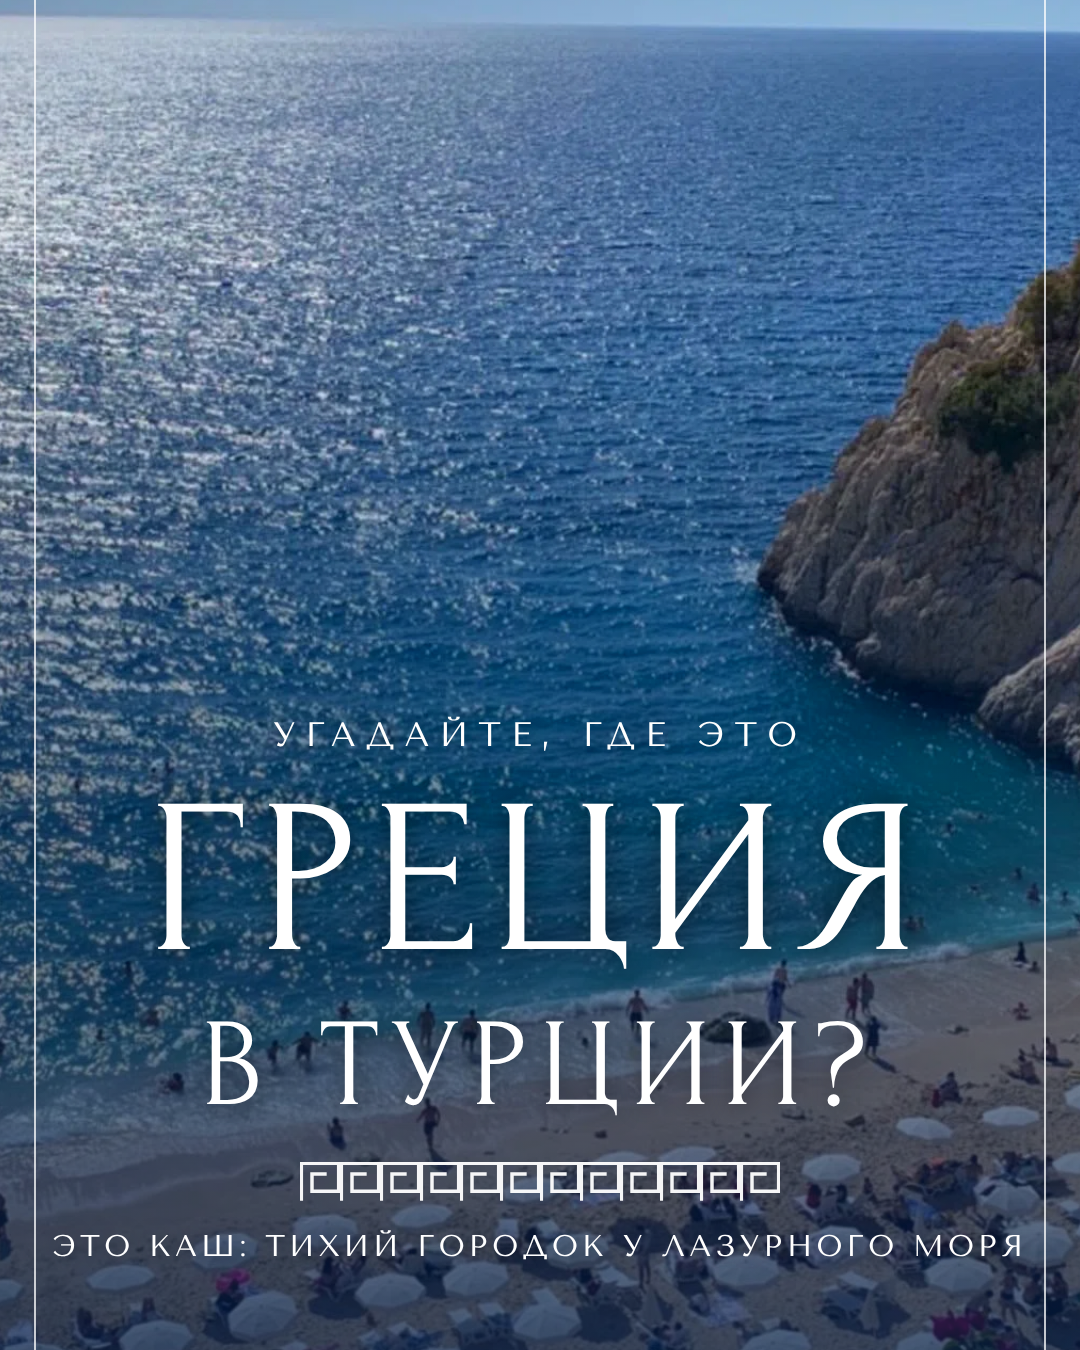
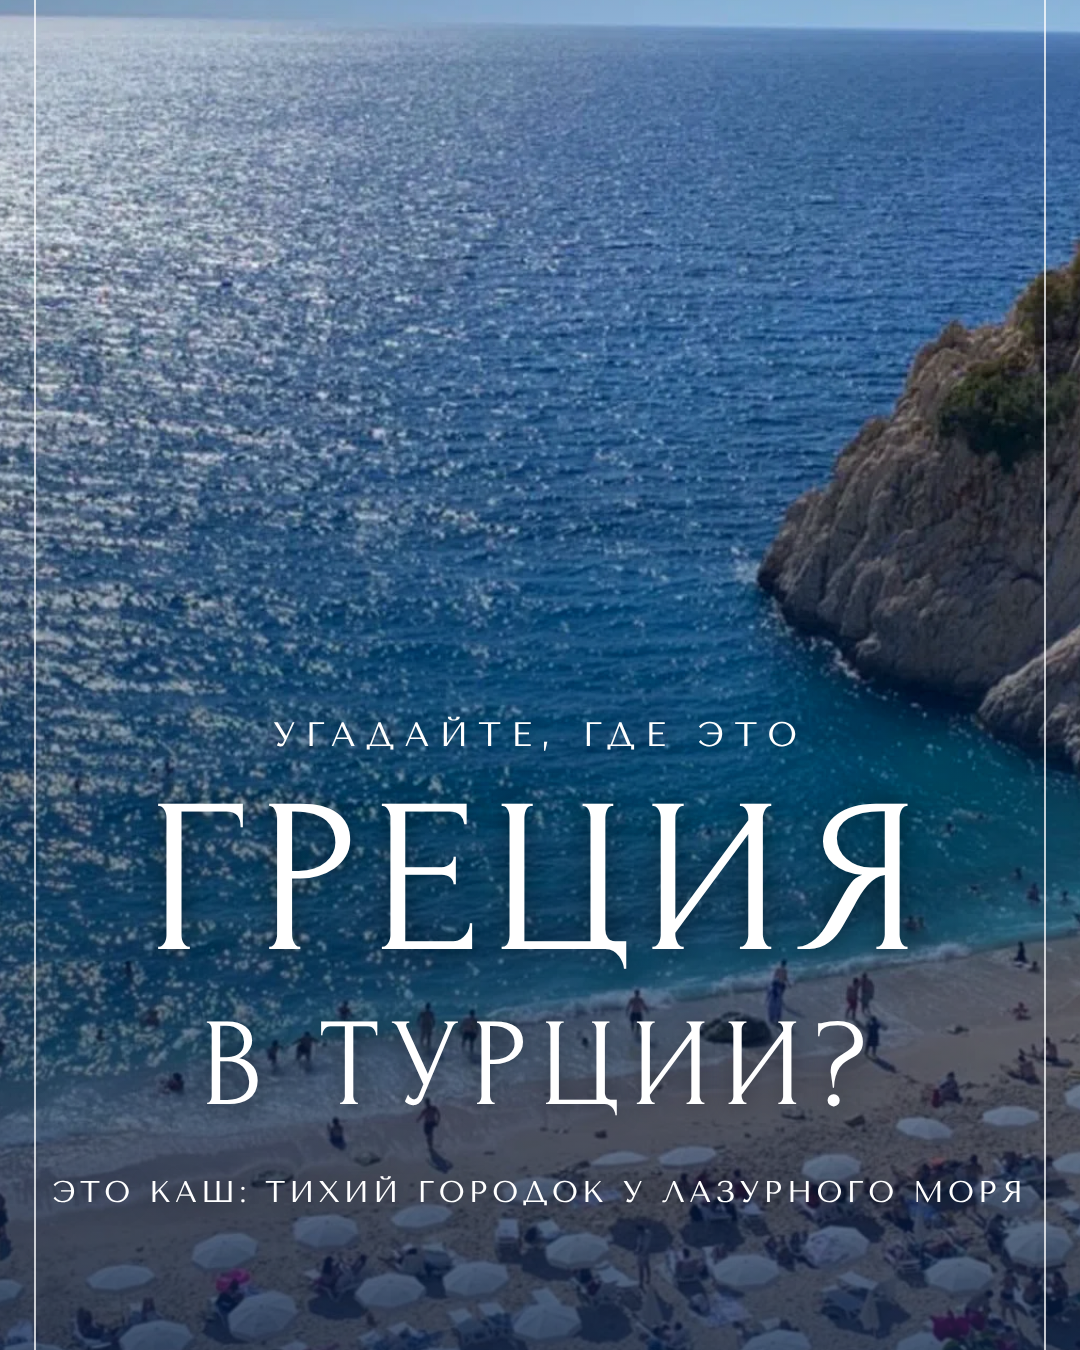
Kaş cover: remove meander ornament under the title; variant without question mark
Claude-Session: https://claude.ai/code/session_01MfS1QBJzWMUPe5nNUUUdV5

diff --git a/make_cover_greek.js b/make_cover_greek.js
@@ -19,9 +19,9 @@ html,body{width:1080px;height:1920px;overflow:hidden;background:#04264f;color:#f
 .b{font-family:FR;font-size:${size}px;line-height:1.05;letter-spacing:.06em;text-transform:uppercase;margin-top:12px}
 .m{font-family:FR;font-size:${Math.min(150, Math.floor(900 / (L2.length * 0.8)))}px;letter-spacing:.1em;text-transform:uppercase;line-height:1.1}
 .mea{width:480px;height:40px;margin:26px auto 22px;background:${MEA} repeat-x;background-size:40px 40px;opacity:.95}
-.s{font-family:TS;font-size:30px;letter-spacing:.14em;text-transform:uppercase;line-height:1.5}
+.s{margin-top:34px;font-family:TS;font-size:30px;letter-spacing:.14em;text-transform:uppercase;line-height:1.5}
 </style><div class="bg"></div><div class="sh"></div><div class="fr"></div><div class="wm">InVoyage</div>
-<div class="t"><div class="k">${KICK}</div><div class="b">${TITLE}</div><div class="m">${L2}</div><div class="mea"></div><div class="s">${CAP}</div></div>`;
+<div class="t"><div class="k">${KICK}</div><div class="b">${TITLE}</div><div class="m">${L2}</div><div class="s">${CAP}</div></div>`;
 (async () => {
   const b = await chromium.launch();
   const p = await b.newPage({ viewport: { width: 1080, height: 1920 } });
